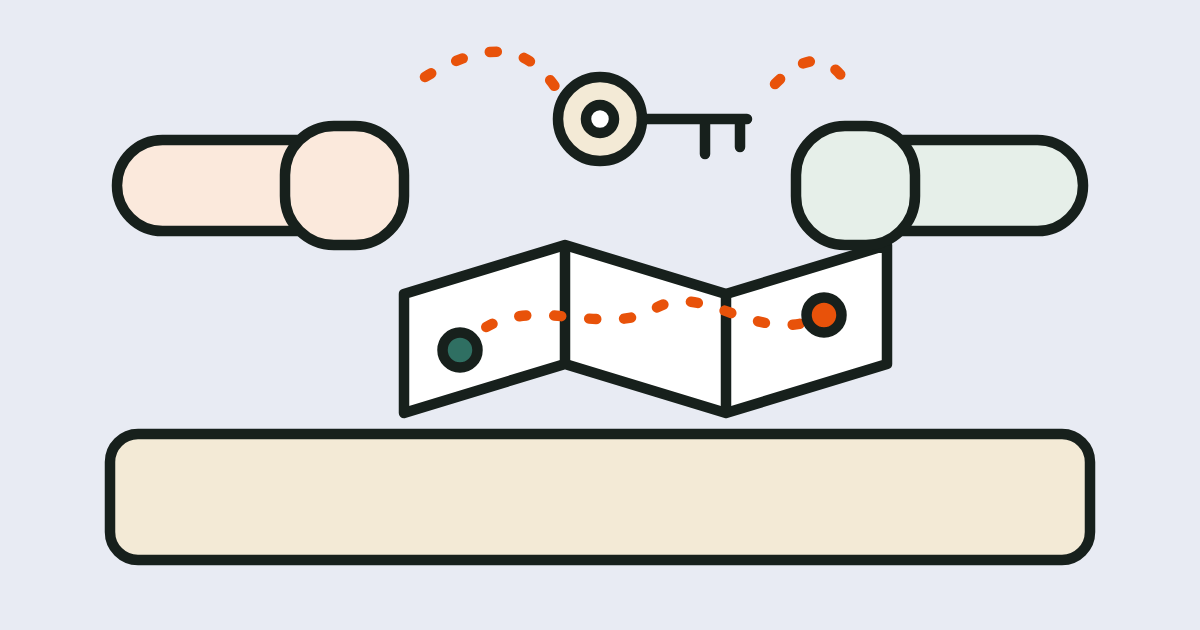
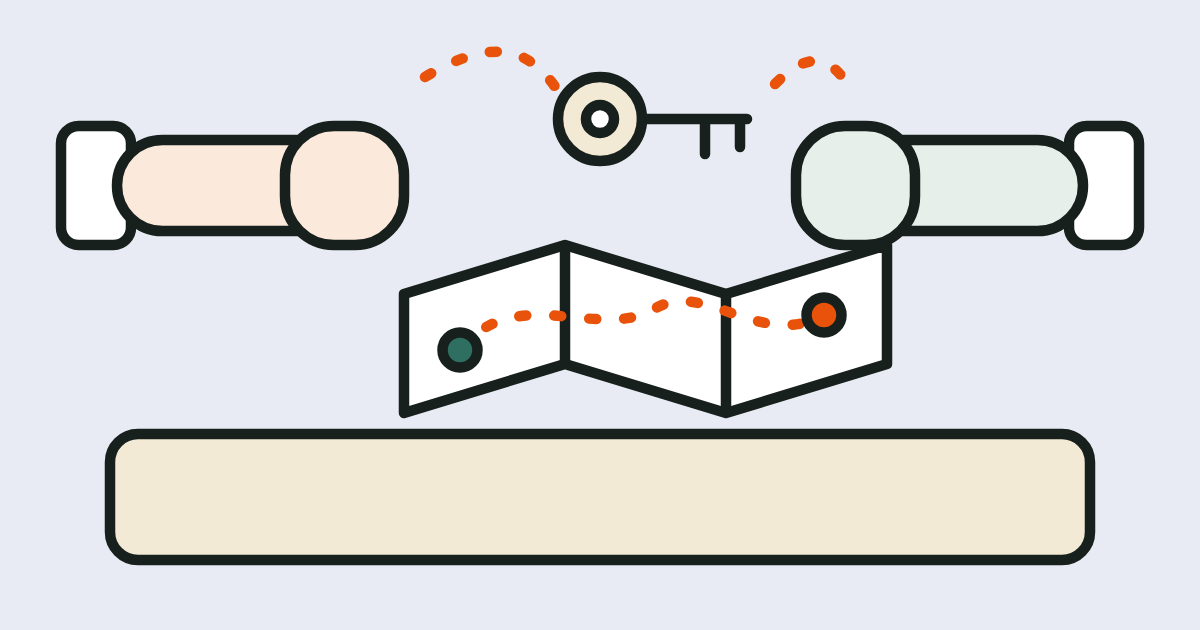
fix(blog): apply validator fixes to wave 2 posts

Changed region(s): [[0.0308, 0.181, 0.1233, 0.4222], [0.8633, 0.181, 0.9558, 0.4222], [0.8633, 0.2111, 0.8942, 0.2413]]

diff --git a/blog/_src/what-a-core-should-hand-over-with-every-project/post.md b/blog/_src/what-a-core-should-hand-over-with-every-project/post.md
@@ -15,7 +15,7 @@ We are not a core and have not run one. What follows draws on published perspect
 
 ## Why the files are not enough
 
-Sloan and Stenglein, writing in PLOS Biology in 2025, argue that data from outsourced or centralised facilities often lacks methodological information. They note that sequencing facilities often return data with little or no methods documentation, and that choices such as the DNA polymerase or the number of PCR cycles can change bias in sequence representation.[^1] The same paper recommends that service providers keep detailed protocols, record methodological metadata for each run, and deliver this information automatically with the data. They also say formal reporting standards for high-throughput sequencing exist but have not gained widespread adoption.[^1]
+Sloan and Stenglein, writing in PLOS Biology in 2025, argue that data from outsourced or centralised facilities often lacks methodological information. They say that, in their experience, many sequencing facilities return data with little or no methods documentation, and note that choices such as the DNA polymerase or the number of PCR cycles can change bias in sequence representation.[^1] The same paper recommends that service providers keep detailed protocols, record methodological metadata for each run, and deliver this information automatically with the data. They also say formal reporting standards for high-throughput sequencing exist but have not gained widespread adoption.[^1]
 
 That paper is mostly about data generation. The analysis side has a similar shape: the numbers in a client's figure depend on a pipeline, its version, its parameters and its reference. A client who receives only outputs cannot answer those questions later, and neither, after enough time, can the core.
 
@@ -27,9 +27,9 @@ Here is the list we would try, in rough order of how cheap each item is to produ
 2. **Inputs, identified.** The names and checksums of the files received or generated, so the client and the core can tell later whether they are talking about the same files.
 3. **Wet-lab methods metadata**, where the core did the preparation: the kit, protocol version and anything the Sloan and Stenglein paper highlights, such as the number of PCR cycles.[^1]
 4. **The analysis environment.** Pipeline name and version, tool versions, and container or environment identifiers.
-5. **Parameters actually used.** Ideally the file that held them, plus any set on the command line. The nf-core troubleshooting page mentions a `-params-file` option in a different context; we read it as one way to keep a parameter set in a file you can send, though the page does not say that.[^2]
+5. **Parameters actually used.** Ideally the file that held them, plus any set on the command line.
 6. **Reference and annotation.** Which genome build and annotation, with a checksum or release name.
-7. **Run reports.** If the pipeline can produce them, include them. The Nextflow documentation describes an execution report, a timeline, a trace file with a row per task, and a workflow graph, each enabled with a command-line option or a configuration setting, so none of them exist unless someone switched them on.[^3]
+7. **Run reports.** If the pipeline can produce them, include them. The Nextflow documentation describes an execution report, a timeline, a trace file of task metrics, and a workflow graph, each enabled with a command-line option or a configuration setting, so none of them exist unless someone switched them on.[^2]
 8. **QC summaries and exclusions.** Which samples were dropped, by whom, and on what grounds.
 9. **A short "what we recorded and what we could not" note.** More on this below.
 10. **Retention terms.** How long the core keeps the data and the record, and who is responsible for backup.
@@ -38,9 +38,9 @@ We do not claim every project needs all ten, and a small project may need two. T
 
 ## Examples from public pages
 
-Some cores already say publicly what they provide. The Harvard Chan Bioinformatics Core's platforms page says it provides template reports with "clear, standardized outputs across projects," and describes its Nextflow and nf-core pipelines as supporting reproducibility, transparency and efficiency.[^4] We have not seen those reports, so we cannot say what is in them. The bioinformatics core policies page at the University of Nebraska Medical Center states that clients should download all results, that the core does not have responsibility to keep data six months after returning results, and that the principal investigator is responsible for backup.[^5] That is a clear retention statement, and it is a good example of item 10 above. Whether it matches what clients expect is something we do not know.
+Some cores already say publicly what they provide. The Harvard Chan Bioinformatics Core's platforms page says it provides template reports with "clear, standardized outputs across projects," and describes its Nextflow and nf-core pipelines as supporting reproducibility, transparency and efficiency.[^3] We have not seen those reports, so we cannot say what is in them. The bioinformatics core policies page at the University of Nebraska Medical Center states that clients should download all results, that the core does not have responsibility to keep data six months after returning results, and that the principal investigator is responsible for backup.[^4] That is a clear retention statement, and it is a good example of item 10 above. Whether it matches what clients expect is something we do not know.
 
-We mention these pages as public examples only. We have no relationship with either institution, and nothing here says how any core works beyond what its own page states.
+We mention these pages as public examples only. We have no relationship with Harvard Chan School or UNMC, and nothing here says how any core works beyond what its own page states.
 
 ## The most useful item might be the honest one
 
@@ -59,9 +59,9 @@ Our [guide on what parameters produced a result](/guides/what-parameters-produce
 
 ## Where Jubilab fits
 
-Jubilab is a local-first, self-hostable record of how results are made. Today it can record Nextflow runs live or import finished ones, import Snakemake runs, and wrap other commands with a native bash wrapper. Each run is immutable history, each fact carries an evidence status, and you can trace a result back to its run, inputs and parameters, and compare two runs. Self-hosted installs have per-user accounts. Opt-in capture of reference and annotation details from file headers ships with our next release.
+Jubilab is a local-first, self-hostable record of how results are made. Today it can record Nextflow runs live or import finished ones, import Snakemake runs, and wrap other commands with a native bash wrapper. Each run is immutable history, each fact carries an evidence status, and you can trace a result back to its run, inputs and parameters, and compare two runs. Self-hosted installs have per-user accounts, and each entry records which signed-in account submitted it; this is not an electronic signature. Opt-in capture of reference and annotation details from file headers ships with our next release.
 
-It does not hand projects over to clients, it has no client portal, it does not link samples to their files, and we have not confirmed that it can export a record as a report, so we are not promising that. Those are things we wonder about and where we are heading, not things you can use today. Jubilab is not affiliated with or endorsed by Nextflow, Seqera, nf-core or any core cited here.
+It does not hand projects over to clients, it has no client portal, it does not link samples to their files, and while it can export a project as JSON, it has no formatted client report today. Those are things we wonder about and where we are heading, not things you can use today. Jubilab is not affiliated with or endorsed by Nextflow, Seqera, nf-core or any core cited here.
 
 ## Questions we are still asking
 
@@ -74,7 +74,6 @@ It does not hand projects over to clients, it has no client portal, it does not 
 ## Sources
 
 - [Towards ensuring reproducibility of outsourced data generation](https://pmc.ncbi.nlm.nih.gov/articles/PMC11734931/) | Sloan and Stenglein, PLOS Biology, 2025 | Accessed: 2026-10-19
-- [Troubleshooting](https://nf-co.re/docs/running/troubleshooting) | nf-core community | Accessed: 2026-10-19
-- [Tracing and visualisation](https://docs.seqera.io/nextflow/tracing) | Seqera, Nextflow documentation | Accessed: 2026-10-19
+- [Reports](https://docs.seqera.io/nextflow/reports) | Seqera, Nextflow documentation | Accessed: 2026-10-19
 - [Bioinformatics platforms](https://hsph.harvard.edu/research/bioinformatics/platforms) | Harvard Chan Bioinformatics Core, Harvard T.H. Chan School of Public Health | Accessed: 2026-10-19
 - [Bioinformatics and Systems Biology Core: policies](https://www.unmc.edu/research-resources/resources/cores/bioinformatics-systems-biology/policies.html) | University of Nebraska Medical Center | Accessed: 2026-10-19

diff --git a/blog/_src/where-did-my-intermediate-files-go/post.md b/blog/_src/where-did-my-intermediate-files-go/post.md
@@ -6,7 +6,7 @@ date: 2026-10-19
 updated: 2026-10-19
 tags: nextflow, storage, provenance
 summary: Work directories get cleaned or purged. What that does to resume, what to keep, and what a record can still say afterwards.
-image_alt: A sandcastle shaped like a folder on a beach with a wave curling in toward it, and a small sealed jar with a check mark standing safely to one side.
+image_alt: A sandcastle with a doorway on a beach with a wave curling in toward it, and a small sealed jar with a check mark standing safely to one side.
 ---
 
 Imagine you come back to a project after a few months and the `work` directory is empty, or half empty. Nobody deleted it on purpose: a cluster policy, a cleanup setting or a quota did. The final results are still there, the figures look fine, and then someone asks you to rerun one step. This post explains what a Nextflow work directory is for, what happens to resume when it disappears, and what we think is worth keeping before it does. We tested a few behaviours on a toy pipeline, and for the rest we rely on the documentation and say so.
@@ -27,19 +27,19 @@ Several different things can empty a work directory, and they are not the same.
 
 **Site purge policies.** Some clusters delete old scratch files automatically. Purdue's research computing page, as one public example, says files become eligible after 60 days on most of its clusters and 30 days on one named system, judged by last access and modification time. It says renaming a file or changing permissions does not protect it, and that users should not expect a warning.[^3] That is one site. Policies differ between institutions, so we would read your own site's page rather than assume.
 
-**Cleanup settings.** Nextflow has a `cleanup` option which, per its configuration reference, deletes all files associated with a run in the work directory when the run completes successfully, and which the page says will prevent the use of resume on subsequent executions of that run.[^4] Some shared configurations turn it on. The nf-core configuration page for one institution says its profile enables Nextflow cleanup on successful completion to save space, and shows an option to keep the directory for debugging.[^5] If you launch a pipeline with someone else's profile, it is worth reading what it sets.
+**Cleanup settings.** Nextflow has a `cleanup` option which, per its configuration reference, deletes all files associated with a run in the work directory when the run completes successfully, and which the page says will prevent the use of resume on subsequent executions of that run.[^4] At least one institutional profile turns it on. The nf-core configuration page for one institution says its profile enables Nextflow cleanup on successful completion to save space, and shows an option to keep the directory for debugging.[^5] If you launch a pipeline with someone else's profile, it is worth reading what it sets.
 
 **The `nextflow clean` command.** It is documented as removing files from previous runs, with `-n` to print what would be removed without deleting and `-k` to remove only temporary files while keeping the log entries.[^6] We ran `nextflow clean -n` (Nextflow 24.01.0-edge) on the toy project and it printed two "Would remove" lines, one per task folder of the latest run, and deleted nothing.
 
 ## What happens to resume
 
-The cache-and-resume documentation says resume needs both a matching cache entry and intact outputs, and that it is important to preserve both the task cache and the work directories to resume runs successfully.[^1] A Seqera community thread asks exactly the practical version of this: whether deleting trimmed FASTQs from the work directory of finished samples would make a resumed run redo the trimming. A Seqera staff member answers that yes, Nextflow would rerun the task and the tasks downstream of it, and suggests splitting samples into batches or using scratch storage as alternatives.[^7]
+The cache-and-resume documentation says resume needs both a matching cache entry and intact outputs, and that it is important to preserve both the task cache and the work directories to resume runs successfully.[^1] A Seqera community thread asks exactly the practical version of this: whether deleting trimmed FASTQs from the work directory of finished samples would make a resumed run redo the trimming. A reply from Phil Ewels in that thread answers that yes, Nextflow would rerun the task and the tasks downstream of it, and suggests splitting samples into batches or using scratch storage as alternatives.[^7]
 
 We saw the same on our toy: after deleting one task's output file from `work/`, `-resume` executed both tasks again, each in a new work folder. That is a two-task example, not a measurement of anything larger, but it matches the documentation. The practical lesson is simple. A tidy-up that frees disk space may also remove your ability to skip work, and on a large cohort that could be hours or days of compute. We do not have numbers for that, so we will not guess them.
 
 ## What to keep
 
-Rule 5 of "Ten Simple Rules for Reproducible Computational Research" is to record all intermediate results, when possible in standardized formats.[^8] That is a reasonable ideal and often an unaffordable one: a work directory can hold several terabytes (the community thread above mentions 3 to 4 TB of trimmed FASTQs for one project). So the real question is which small things are worth keeping when the large things go.
+Rule 5 of "Ten Simple Rules for Reproducible Computational Research" is to record all intermediate results, when possible in standardized formats.[^8] That is a reasonable ideal and often an unaffordable one: a work directory can hold terabytes (the community thread above mentions 3 to 4 TB of trimmed FASTQs for one project). So the real question is which small things are worth keeping when the large things go.
 
 1. **Final outputs**, in a location with its own retention rules, not scratch.
 2. **The pipeline configuration and parameters** actually used, not the defaults you remember.
@@ -56,7 +56,7 @@ A record can still say which run made a result, with which parameters and inputs
 
 ## Where Jubilab fits
 
-Jubilab is a local-first, self-hostable record of how results are made. Today you can import or live-capture Nextflow runs, import Snakemake runs, and wrap other commands with the native bash wrapper. Runs are immutable history, and each fact carries an evidence status. Jubilab records which files a run used; it is not a data store and does not archive their contents, so if a purge removes a file, the record can be left pointing to something that no longer exists. We have not confirmed how it presents that today, so we do not claim that it detects missing files. Opt-in capture of reference and annotation details from file headers ships with our next release. Jubilab is not affiliated with or endorsed by Nextflow, Seqera, nf-core, Purdue University or the authors cited here.
+Jubilab is a local-first, self-hostable record of how results are made. Today you can import or live-capture Nextflow runs, import Snakemake runs, and wrap other commands with the native bash wrapper. Runs are immutable history, and each fact carries an evidence status. Jubilab records the locations of the files a run used (and, when you ask for it, their size, timestamp and checksum), never their contents; it is not a data store, so if a purge removes a file, the record can be left pointing to something that no longer exists. We have not confirmed how it presents that today, so we do not claim that it detects missing files. Opt-in capture of reference and annotation details from file headers ships with our next release. Jubilab is not affiliated with or endorsed by Nextflow, Seqera, nf-core, Tufts University, Purdue University or the authors cited here.
 
 ## Questions we are still asking
 

diff --git a/blog/_src/lifting-a-vcf-over-what-to-record/post.md b/blog/_src/lifting-a-vcf-over-what-to-record/post.md
@@ -13,7 +13,7 @@ Imagine you lift a VCF from one genome assembly to another, and the output has f
 
 ## What liftover does
 
-Liftover converts coordinates from one assembly to another using a chain file. The UCSC description of the chain format says that a chain file stores a pairwise alignment between two genome sequences, one that allows gaps in both sequences at once, as a series of aligned blocks with the distances between them.[^1] A variant sitting inside an aligned block can be moved. A variant that falls between blocks has no obvious destination.
+Liftover converts coordinates from one assembly to another using a chain file. The UCSC description of the chain format says that a chain file stores a pairwise alignment between two genome sequences, one that allows gaps in both sequences at once, as a series of aligned blocks with the distances between them.[^1] A variant sitting inside an aligned block can be moved. A variant that falls between blocks has no direct destination, though some tools try to recover it.
 
 For a VCF there is a second problem. The record carries alleles as well as a position, so the tool must also decide what REF and ALT mean on the other assembly. CrossMap's documentation states that its VCF mode needs the chain file, the input VCF and a FASTA of the target assembly, and that this reference "must correspond to the target assembly."[^2] Picard's LiftoverVcf documentation lists the chain file, an output for rejected records and the target reference sequence among its required arguments.[^3] In both cases, three things shape the result: the chain, the target reference and the tool.
 
@@ -30,7 +30,7 @@ How much do tools differ in practice? One comparison is in the paper describing 
 Here is the short list we would keep next to every lifted file:
 
 1. **Source and target:** the assembly name and build of the input, and of the target FASTA you passed to the tool.
-2. **Chain file:** its name, where it came from, and a checksum. A chain file with the same name can change between downloads, and a checksum is the cheapest way to notice.
+2. **Chain file:** its name, where it came from, and a checksum. A chain file may be updated at its source without its name changing; we have not checked how often that happens, but a checksum is a cheap way to notice.
 3. **Tool and version**, and the full command line, including options such as how swapped alleles or original positions were handled.
 4. **Counts:** records in, records out, records rejected, and where the reject or unmap file is stored.
 5. **Anything you did afterwards:** filtering, sorting or normalisation applied to the lifted output.
@@ -59,11 +59,11 @@ The bcftools manual also notes a `--no-version` option that leaves version and c
 
 ## Checking afterwards
 
-A count tells you how many records went missing, not which ones or why. If the reject file survives, it is a good place to start, because, according to their documentation, the tools above write rejected records out with filters or reasons. If it does not, you can only compare the input and output yourself. Our [guide on checking the reference build of a VCF or BAM](/guides/reference-genome-build-vcf-bam/) walks through checks such as contig lengths and REF alleles against a FASTA, which work on a lifted file in the same way.
+A count tells you how many records went missing, not which ones or why. If the reject file survives, it is a good place to start, because, according to their documentation, Picard and CrossMap write rejected records out with filters or reasons. If it does not, you can only compare the input and output yourself. Our [guide on checking the reference build of a VCF or BAM](/guides/reference-genome-build-vcf-bam/) walks through checks such as contig lengths and REF alleles against a FASTA, which work on a lifted file in the same way.
 
 ## Where Jubilab fits
 
-Jubilab is being built to keep this kind of record for you, as a local-first, self-hostable history of how results are made. Today you can wrap a liftover command with the native bash wrapper like any other command, and Jubilab keeps the command, its parameters and the files involved as an immutable run, with each fact marked verified, inferred, manual or unknown. You can then trace the lifted file back to its run and compare two runs, for example the same input lifted with two chain files. Opt-in capture of reference and annotation details from file headers ships with our next release.
+Jubilab is being built to keep this kind of record for you, as a local-first, self-hostable history of how results are made. Today you can wrap a liftover command with the native bash wrapper. Jubilab keeps the command, its arguments and the input and output files you declare as an immutable run; the command and times are marked verified, and files you declare are marked manual or inferred. If you declare the lifted file as an output, you can trace it back to that run, and you can compare two runs, for example the same input lifted with two chain files. Opt-in capture of reference and annotation details from file headers ships with our next release.
 
 Jubilab does not perform or check a liftover, it does not detect that a liftover went wrong, and it does not yet check for reference build mismatches. It is not affiliated with or endorsed by Picard, CrossMap, UCSC, the bcftools project or the authors cited here.
 

diff --git a/blog/_src/same-fastqs-different-variants/post.md b/blog/_src/same-fastqs-different-variants/post.md
@@ -23,7 +23,7 @@ Three papers are useful because they look at different layers.
 
 **Threads and repeats.** Sandmann and colleagues evaluated eight variant callers on targeted sequencing data. When they ran the same dataset twice with the same settings, most tools gave identical results, and the exception was VarDict, whose differences were in indels; the authors suspect a non-deterministic step in its local realignment. For the three tools that offer multithreading (GATK, Platypus and LoFreq), a single-thread and an eight-thread run differed. GATK showed the largest differences, and did not produce an exactly identical output for a single sample.[^2] That is one study, on one kind of data, with the versions of its day, so we would not generalise it. It is, though, a reason to test thread counts on your own data before assuming they do not matter.
 
-**Environment.** A 2025 study had eleven student groups build somatic variant-calling pipelines on the same benchmark dataset. The authors report that operating system and installation method were the most influential factors in variant-calling performance, and that identical library versions and parameters still gave divergent results. They also describe the findings as observational, from small groups, without establishing cause.[^3] We read that as a hint that "same tools" can hide differences, not as a verdict on any setup.
+**Environment.** A 2025 study had eleven student groups build somatic variant-calling pipelines on the same benchmark dataset. The authors report that operating system and installation method were the most influential factors in variant-calling performance, and that identical library versions and parameters still gave divergent results. [^3] We read this as an observational pattern across eleven student groups. We did not see the authors claim to have established cause, so we treat it as a hint that "same tools" can hide differences, not as a verdict on any setup.
 
 ## Order and ties inside the pipeline
 
@@ -65,7 +65,7 @@ Our [guide on what parameters produced a result](/guides/what-parameters-produce
 
 ## Where Jubilab fits
 
-Jubilab is a local-first, self-hostable record of how results are made. Today you can import Nextflow or Snakemake runs, capture Nextflow runs live, or wrap other commands with the native bash wrapper. Each run is kept as immutable history, each fact carries an evidence status, and you can compare two runs to see which recorded values differ, such as a thread count or a tool version. Opt-in capture of reference and annotation details from file headers ships with our next release.
+Jubilab is a local-first, self-hostable record of how results are made. Today you can import Nextflow or Snakemake runs, capture Nextflow runs live, or wrap other commands with the native bash wrapper. Each run is kept as immutable history, each fact carries an evidence status, and you can compare two runs to see which recorded values differ, such as a command-line setting you passed. Opt-in capture of reference and annotation details from file headers ships with our next release.
 
 Jubilab does not make a pipeline deterministic, and it cannot tell you why two outputs differ. It can only show you which recorded inputs and settings were different, and which were never recorded. It is not affiliated with or endorsed by GATK, bcftools, samtools or the authors cited here.
 

diff --git a/blog/_src/inherited-pipeline-first-week-checklist/post.md b/blog/_src/inherited-pipeline-first-week-checklist/post.md
@@ -53,13 +53,13 @@ This is also the time to look for manual steps. The same 2013 paper recommends a
 
 ## Day four: look for hard-coded paths and missing files
 
-Search the scripts for absolute paths, home directories, and scratch locations. Each one is a question: does that path exist today, and was it the same thing then? Scratch space is often cleaned automatically, so a missing folder may simply mean time passed. Our [guide on what parameters produced a result](/guides/what-parameters-produced-this-result/) covers what tends to get lost.
+Search the scripts for absolute paths, home directories, and scratch locations. Each one is a question: does that path exist today, and was it the same thing then? Some sites clean scratch space automatically, so a missing folder may simply mean time passed. Our [guide on what parameters produced a result](/guides/what-parameters-produced-this-result/) covers what tends to get lost.
 
 For Nextflow, the documentation says resume needs both a matching cache entry and intact outputs, and recommends preserving the task cache and the work directories to resume successfully.[^6] So if the work directory is gone, expect a rerun to do real work again rather than skip steps.
 
 ## Day five: rerun small, and compare
 
-Rerun the smallest piece you can on a copy, with the inputs and settings you believe were used, and compare the output with the old one. Differences are information. A 2025 study of student-built variant-calling pipelines on one benchmark dataset reports that the operating system and installation method were the most influential factors in performance, though the authors describe these as observational associations from small groups.[^7] We read that as a reason to record the environment, not as a rule about which setup is best, and we would want to see it repeated elsewhere.
+Rerun the smallest piece you can on a copy, with the inputs and settings you believe were used, and compare the output with the old one. Differences are information. A 2025 study of student-built variant-calling pipelines on one benchmark dataset reports that the operating system and installation method were the most influential factors in performance.[^7] This is a course project with eleven groups, so we read it as a hint to record the environment, not as a rule about which setup is best.
 
 ## What to write down as you go
 
